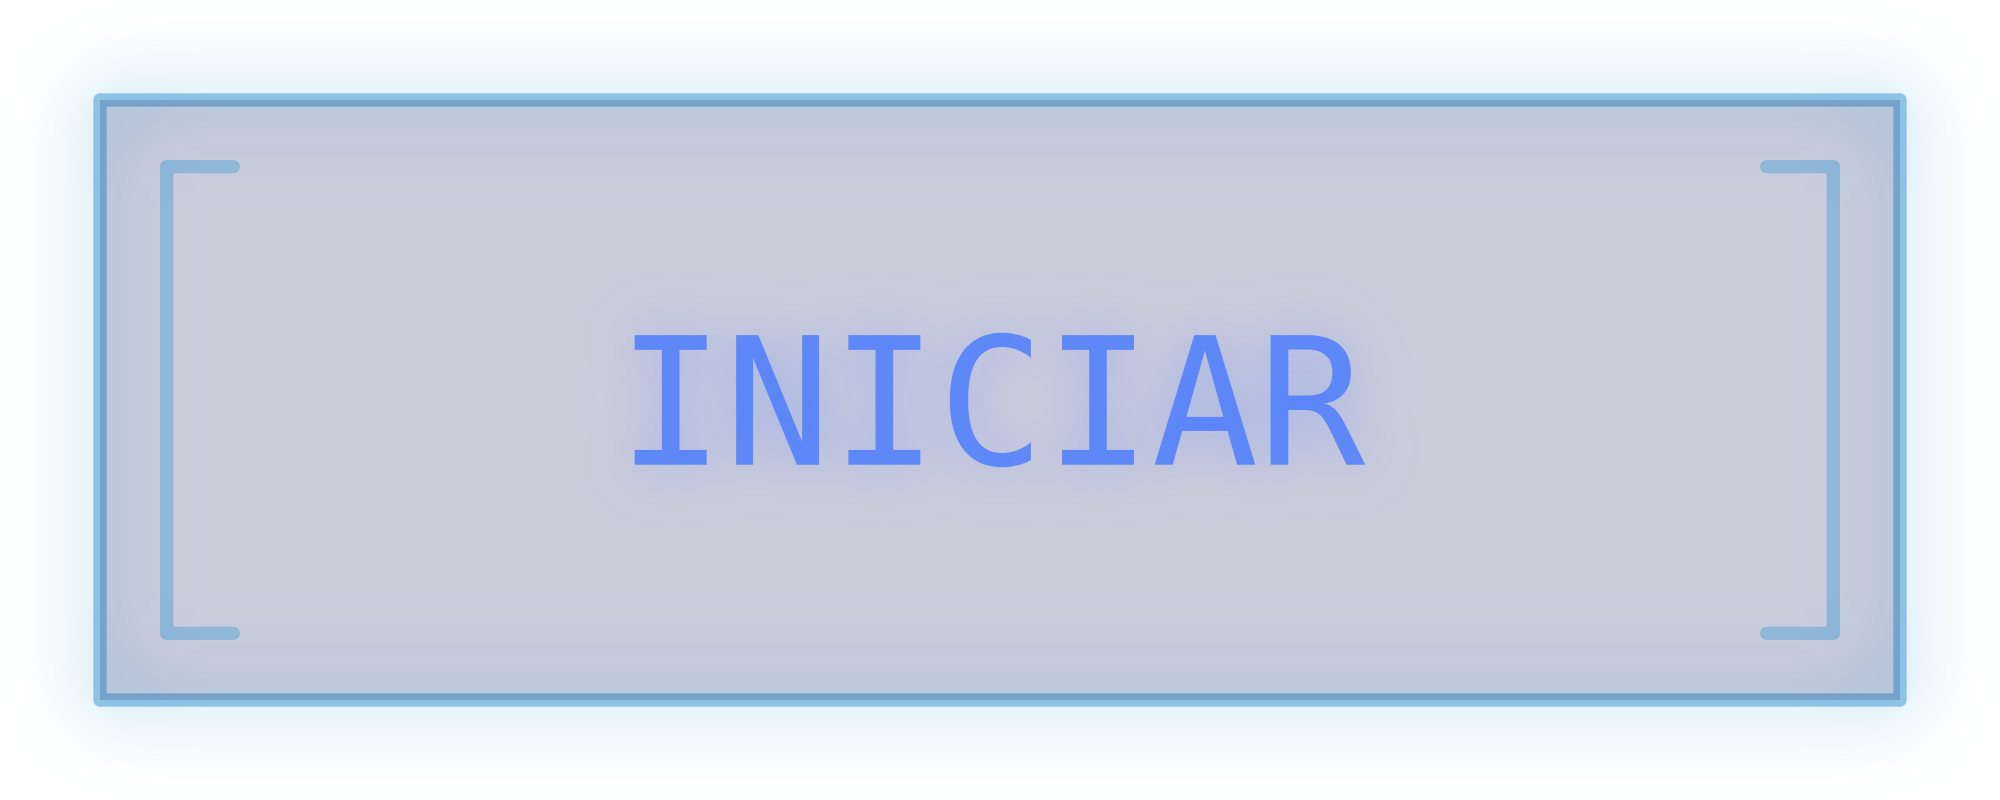
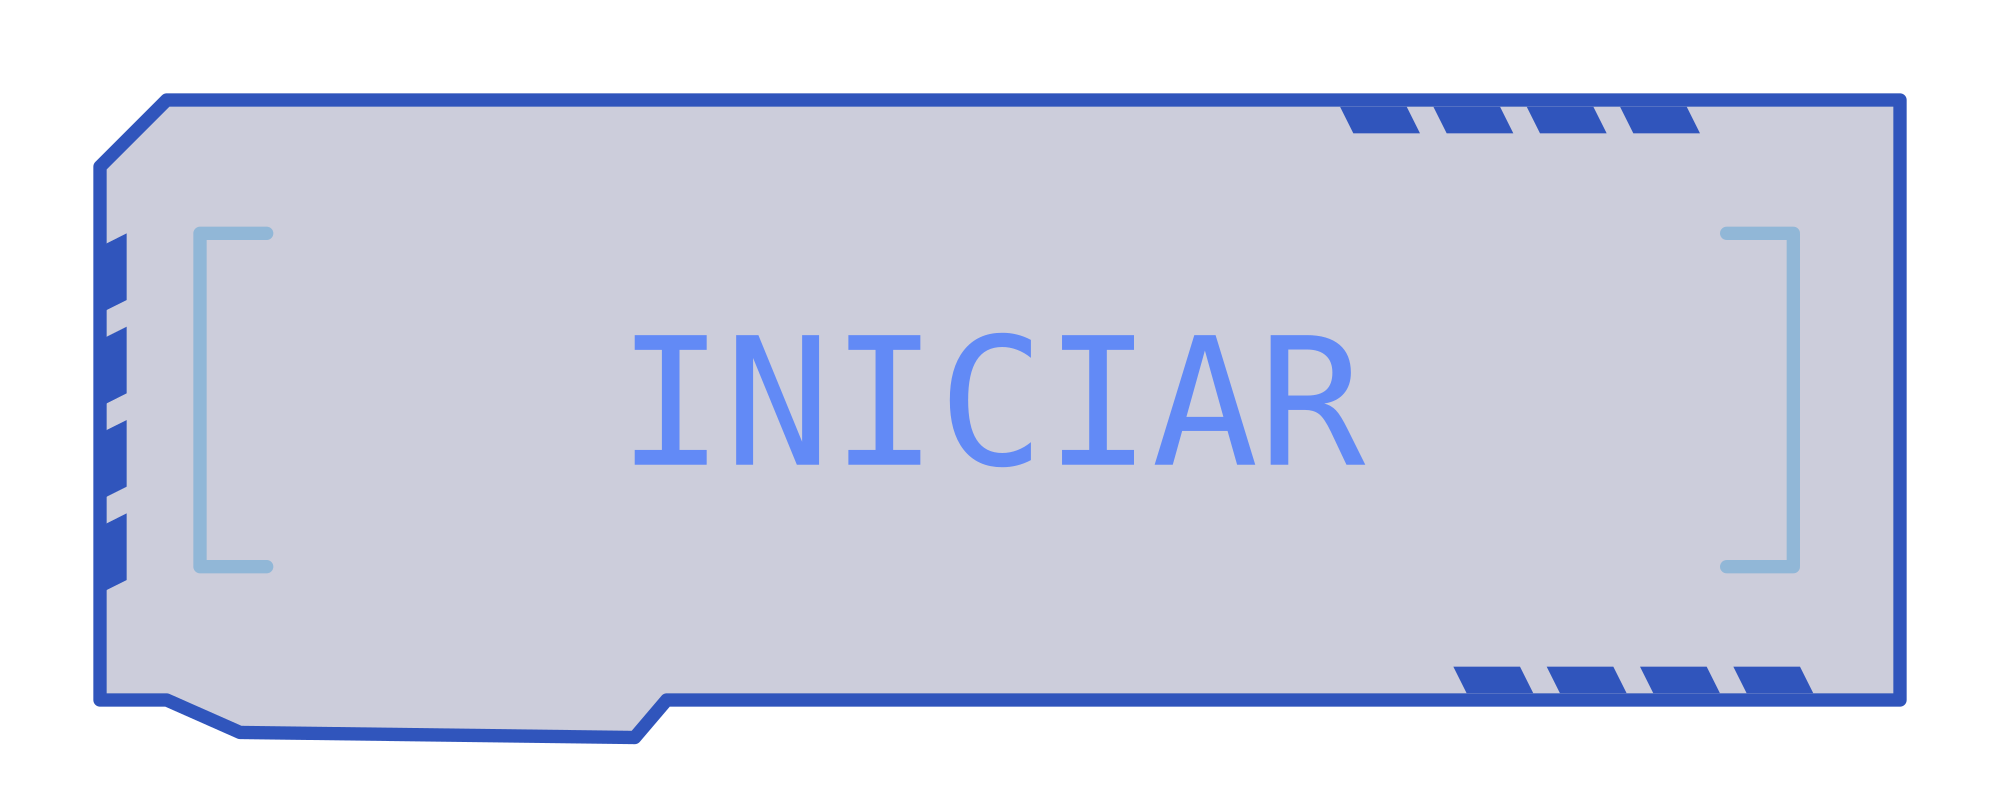
se actualizó el diseño del boton de menu

Changed region(s): [[0.031, 0.0938, 0.961, 0.9375]]

diff --git a/src/App.vue b/src/App.vue
@@ -1,8 +1,16 @@
 <script setup>
 import "aframe";
-import { onMounted,ref } from "vue";
+import { onMounted,reactive,ref } from "vue";
 const count = ref("");
 const oxigen = ref(100)
+
+
+const btnPosition = reactive({
+    x:0,
+    y:1.5,
+    z:-3
+})
+
 onMounted(()=>{
     // reloj de visor
     setInterval(()=>{
@@ -19,6 +27,7 @@ onMounted(()=>{
         }
     })
 })
+
 </script>
 
 <template>
@@ -30,9 +39,9 @@ onMounted(()=>{
                 <a-cursor material="color:white"></a-cursor>
                 <a-text :value="'Oxygen: ' + oxigen + '%'" scale="0.5 0.5" opacity="0.5" color="#3192d3" position="2 2 -3"></a-text>
                 <a-text :value="'SpO2: ' + oxigen + '%'" scale="0.4 0.4" opacity="1" color="#3192d3" position="-0.5 -1.75 -3"></a-text>
-                <a-image src="/proyecto-vr/visor.png" alpha-test position="0 0 -0.6" width="2"></a-image>
+                <a-image ref="btn" src="/proyecto-vr/visor.png" alpha-test position="0 0 -0.6" width="2"></a-image>
             </a-camera>
-            <a-image width="2.5" src="/proyecto-vr/button.png" position="0 1.5 -3"></a-image>
+            <a-image width="2.5" src="/proyecto-vr/button.png" :position="btnPosition.x + ' ' + btnPosition.y + ' ' + btnPosition.z"></a-image>
                 <a-text :value="count" scale="0.3 0.3" opacity="0.5" color="#3192d3" position="-0.9 2 -3"></a-text>
                 <a-sky color="#040D19"></a-sky>
         </a-scene>
